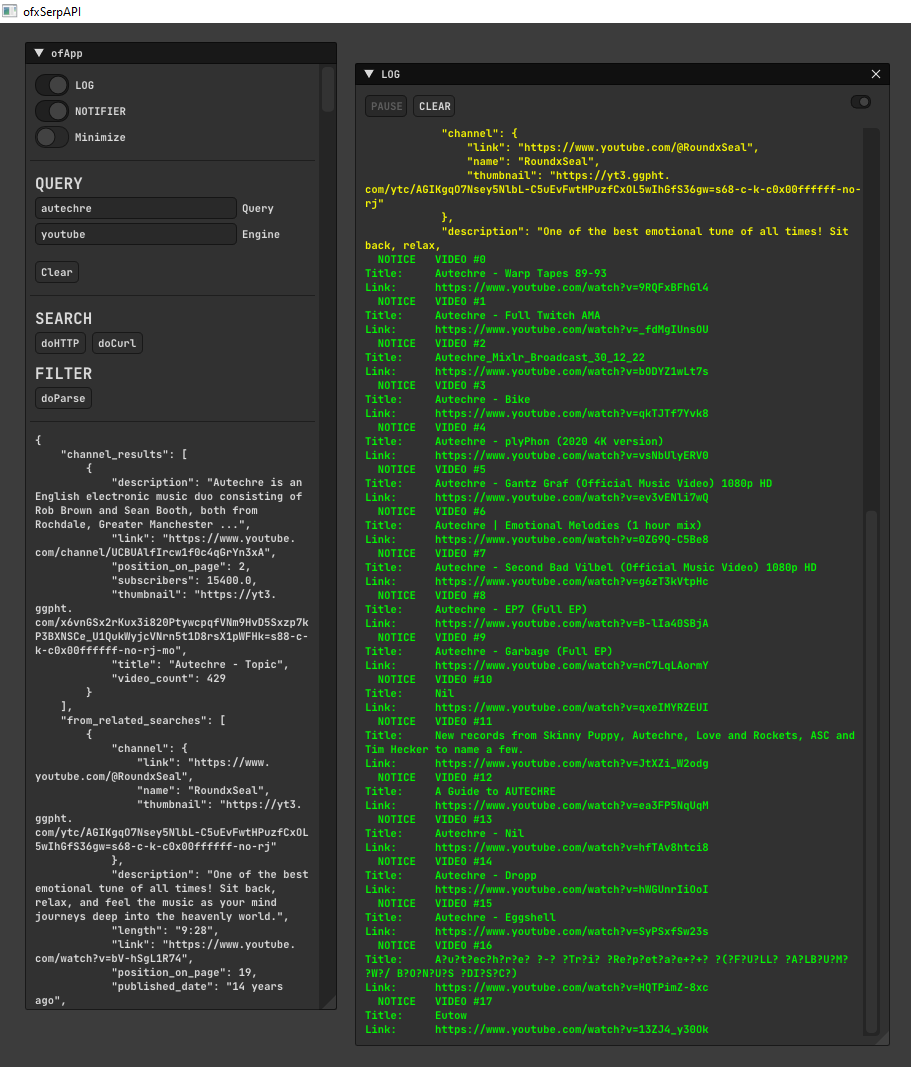
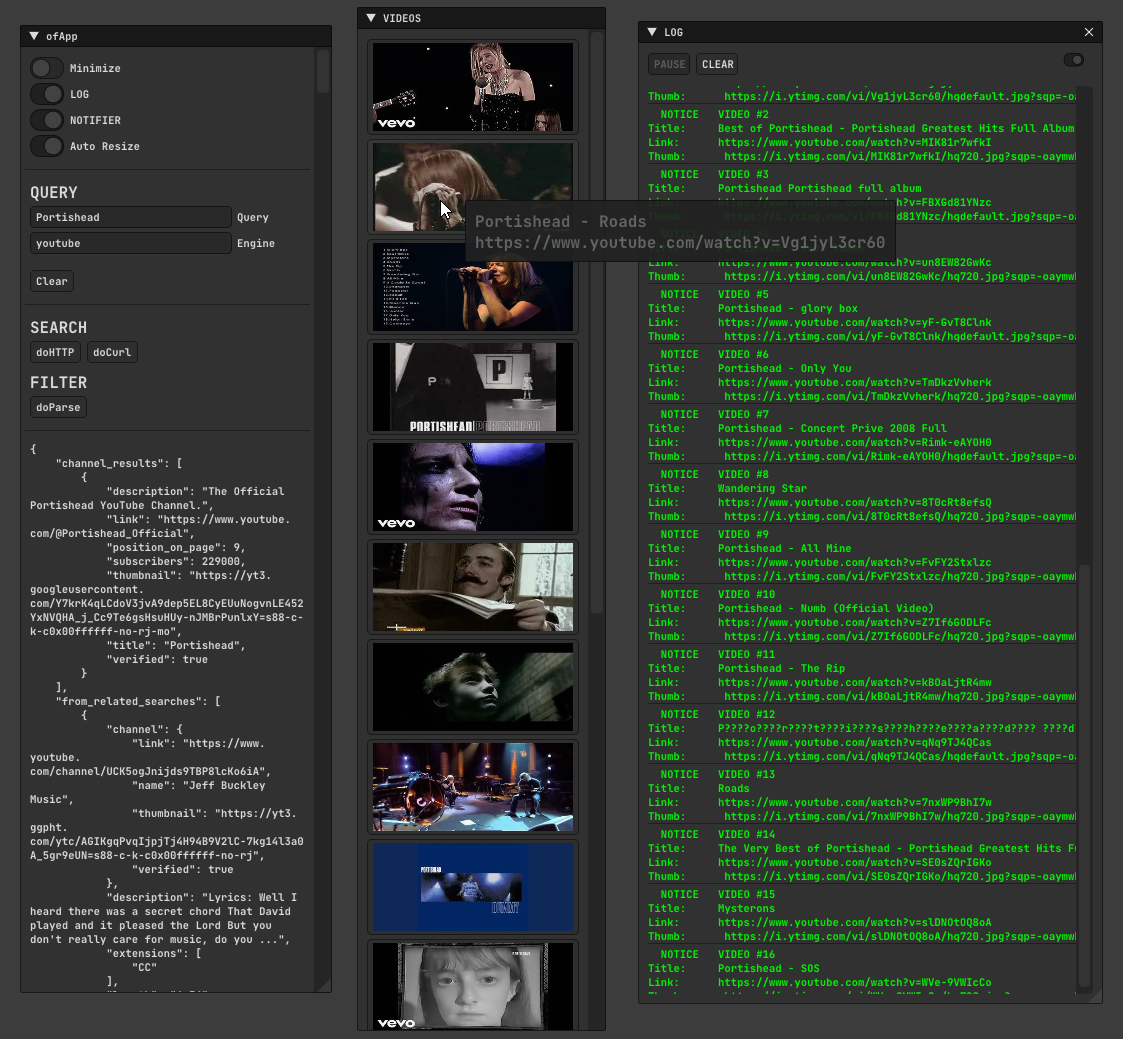
'

diff --git a/example-basic/src/ofApp.cpp b/example-basic/src/ofApp.cpp
@@ -16,20 +16,20 @@ void ofApp::setup() {
 
 void ofApp::update() {
 
-	// title to debuh that threading is working
+	// title to debug that threading is working
 	const int d = 120;
 	if (ofGetFrameNum() % d < (d / 0.5)) {
 		ofSetWindowTitle("ofxSerpAPI");
 	}
 	else ofSetWindowTitle("         ");
 
-	//TODO: force settings
 	if (ofGetFrameNum() == 2) {
-		//ui.notifier.setDuration(1000);
+		ui.notifier.setDuration(1000);
 		ui.notifier.setMini();
 	}
 
-	//TODO: make callback
+	//TODO: 
+	// Make callback
 	// Curl
 	if (searchAPI.isCurlDone()) {
 		jResponse = searchAPI.jResponse;
@@ -104,37 +104,33 @@ void ofApp::drawUI() {
 		ui.EndWindow();
 	}
 
-	if (videos.size() > 0) {
+	if (videos.size() > 0)
+	{
 		IMGUI_SUGAR__WINDOWS_CONSTRAINTS_DEFAULT;
-		if (ui.BeginWindow("VIDEOS")) {
-
+		if (ui.BeginWindow("VIDEOS"))
+		{
 			for (size_t i = 0; i < videos.size(); i++)
 			{
 				string s = videos[i].name;
+				s += "\n";
+				s += videos[i].url;
 
 				float w, h;
-				w = ui.getWidgetsWidth();
+				w = 200;
 				h = ui.getWidgetsHeightUnit() * 4;
 				ImVec2 sz{ w, h };
 
-				//if (ui.AddButton(s.c_str(), sz))
-				//{
-				//	ofLaunchBrowser(videos[i].url);
-				//}
-
-				//////ofTexture tex = videos[i].img.getTexture();
-				////if (ImGui::ImageButton(videos[i].imgID, ImVec2{ w, h })) 
-				//ImTextureID texID = ofxImGuiSurfing::GetImTextureID2(videos[i].imgID);
-				//if (ImGui::ImageButton(texID, ImVec2(w, h)))
-				//{
-				//	ofLaunchBrowser(videos[i].url);
-				//}
-
-				if (ImGui::ImageButton(ofxImGuiSurfing::GetImTextureID2(videos[i].texID), sz))
+				if (videos[i].tex.isAllocated())
 				{
-					ofLaunchBrowser(videos[i].url);
+					if (ImGui::ImageButton(ofxImGuiSurfing::GetImTextureID2(videos[i].texID), sz))
+					{
+						ofLaunchBrowser(videos[i].url);
+					}
+
+					ui.PushFontStyle(OFX_IM_FONT_BIG);
+					ui.AddTooltipBlink(s);
+					ui.PopFontStyle();
 				}
-				ui.AddTooltip(s);
 			}
 
 			ui.EndWindow();
@@ -149,6 +145,7 @@ void ofApp::doClear()
 	sResponse = "";
 	AddToLog(__FUNCTION__, OF_LOG_WARNING);
 	ui.ClearLog();
+	videos.clear();
 }
 
 // Send query
@@ -162,6 +159,8 @@ void ofApp::doSearchHTTP(const std::string& query, const std::string& engine)
 		string ss = "doSearchHTTP Result: " + sResponse;
 		ofLogNotice() << ss;
 		ui.AddToLog(ss, OF_LOG_WARNING);
+
+		videos.clear();
 		});
 }
 
@@ -222,17 +221,12 @@ void ofApp::doParse() {
 			v.name = videoTitle;
 			v.url = videoLink;
 			v.thumb = thumbnailLink;
-
 			ofHttpResponse r = ofLoadURL(thumbnailLink);
 			if (r.status == 200) {
-				v.img.loadImage(r.data);
-				v.imgID = ui.getGuiPtr()->loadImage(v.img);
 				v.texID = ui.getGuiPtr()->loadTexture(v.tex, v.thumb);
 
 			}
-
 			videos.emplace_back(v);
-			//videos.push_back(v);
 
 			//--
 

diff --git a/example-basic/src/ofApp.h b/example-basic/src/ofApp.h
@@ -3,6 +3,9 @@
 
 /*
 
+TODO:
+move images to class
+
 https://serpapi.com/
 https://serpapi.com/youtube-search-api
 
@@ -50,9 +53,7 @@ public:
 		string name;
 		string url;
 		string thumb;
-		ofImage img;
 		ofTexture tex;
-		GLuint imgID;
 		GLuint texID;
 	};
 	vector<dataVideo> videos;
